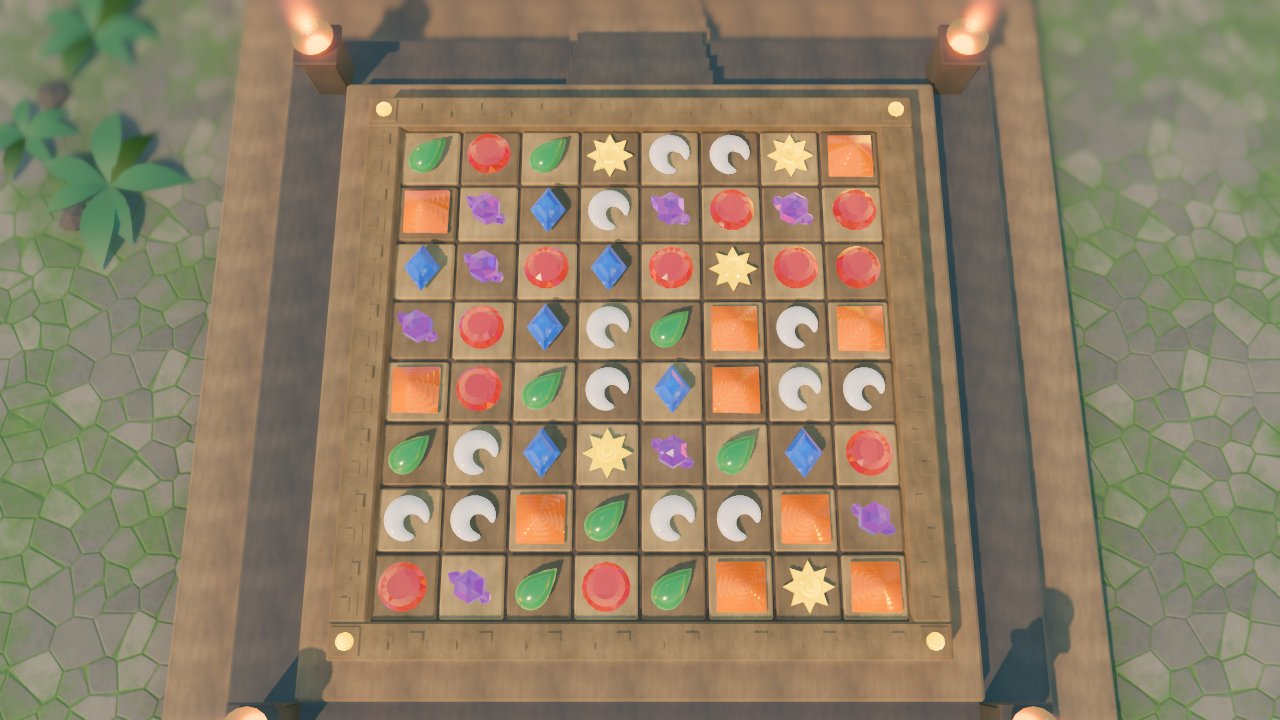
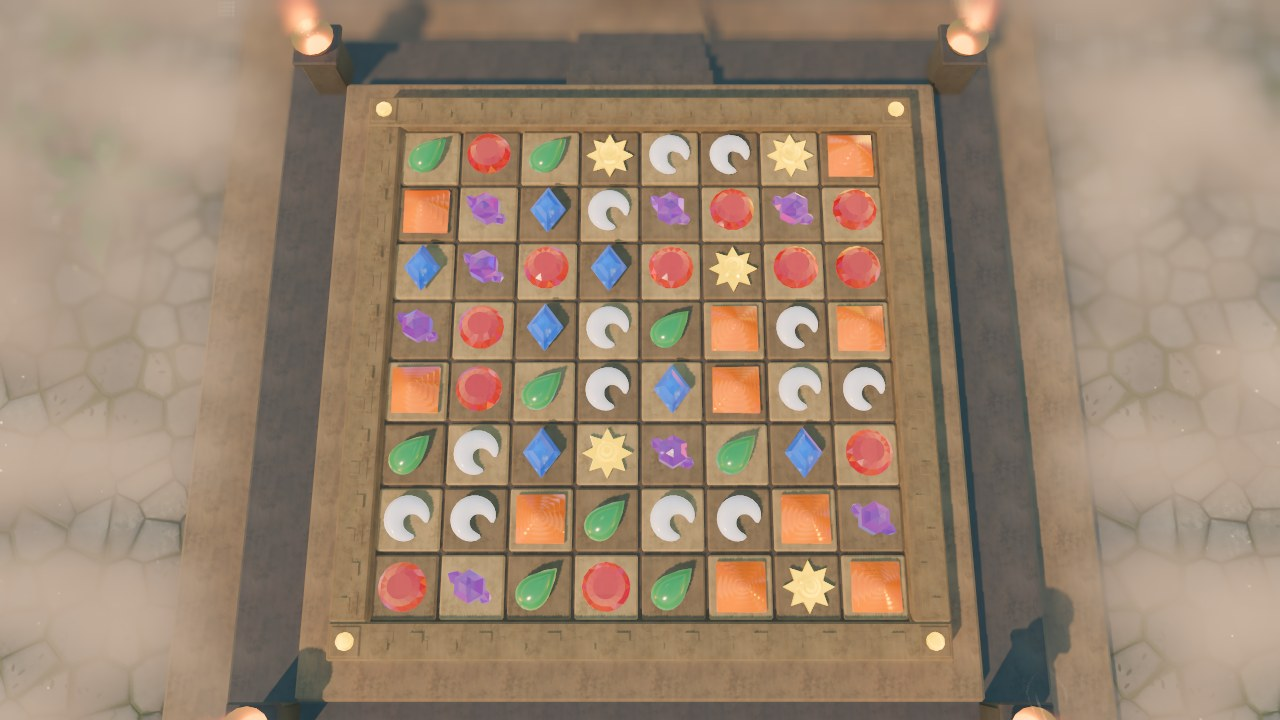
docs(assets): recapture the temple post-processing look-dev frames
The desktop-high, web and mobile frames now show this branch's head:
BackdropBlur, the lighting pass's grade fold-in and main's ground mist.
Each window was held at its documented size with gamescope. The
readability results at those sizes go into the grade notes; web's rule
6 failure came in with the mist, not the grade.

Refs: WP-52
Claude-Session: https://claude.ai/code/session_011QWSH2iYKanCTUJ5SicEYk

diff --git a/design/grade/temple.md b/design/grade/temple.md
@@ -85,6 +85,15 @@ the real-GPU run on the M4 replaces these.
 | `web`, after | 540×1170 | pass, 0.0 | pass, 0.4% | pass, 0% |
 | `mobile`, before | 540×1170 | pass, 0.007 | pass, 0.2% | pass, 0% |
 | `mobile`, after | 540×1170 | pass, 0.0 | pass, 0.1% | pass, 0% |
+| `desktop-high`, lighting fold-in, after main's mist | 1280×720 | pass, 0.019 | pass, 6.5% | pass, 0% |
+| `web`, first grade, after main's mist | 540×1170 | pass, 0.0 | pass, 3.4% | fail, 1.76% |
+| `web`, lighting fold-in, after main's mist | 540×1170 | pass, 0.0 | pass, 3.5% | fail, 1.97% |
+| `mobile`, lighting fold-in, after main's mist | 540×1170 | pass, 0.0 | pass, 0.0% | pass, 0% |
+
+The last four rows are on an RTX 4080 SUPER, each window held at its
+size by gamescope. `web`'s rule 6 failure came in with main's ground
+mist (#79): it fails with the first grade too, and the lighting
+fold-in adds 0.2 points. The frames below are these captures.
 
 `desktop-high` at phone size keeps a capture noise floor of about 0.09%
 from the FSR 2 upscaler's jitter at 540 internal lines, so its rule 6 is
